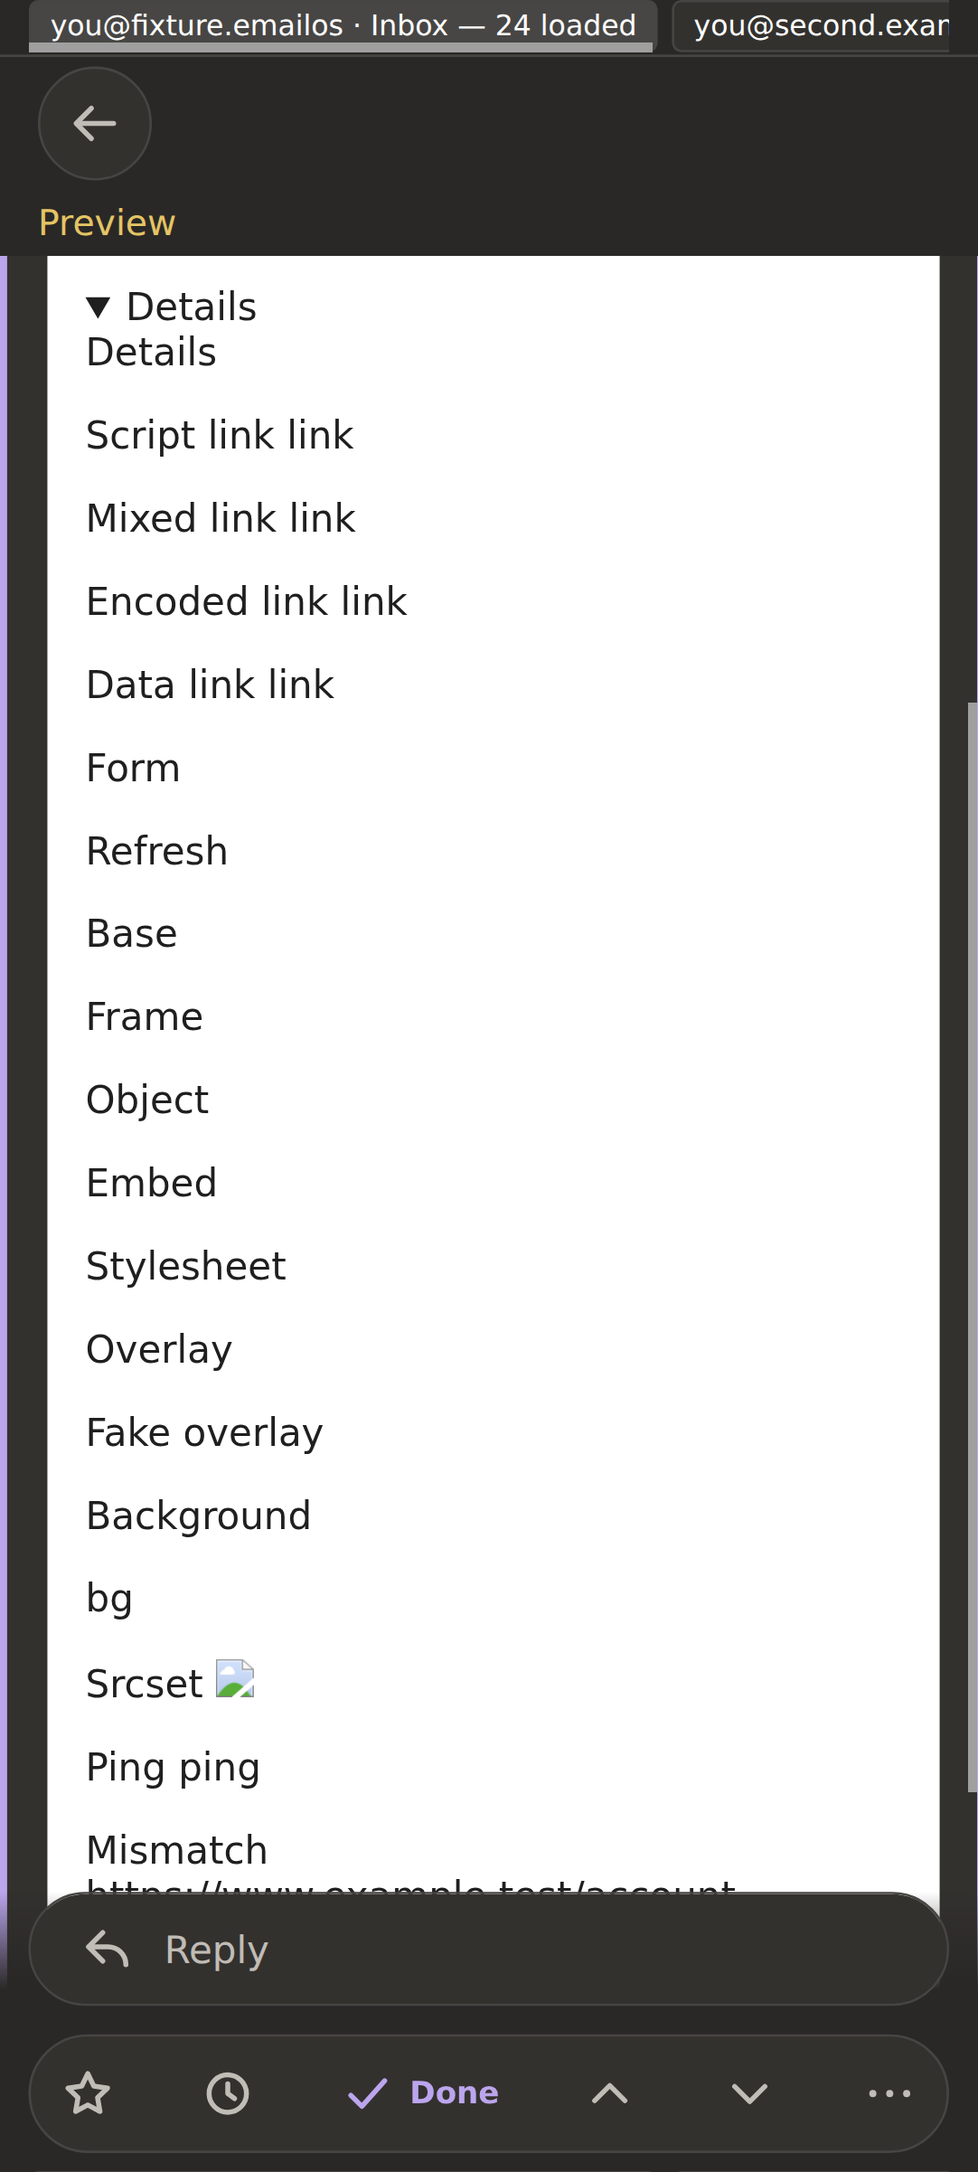
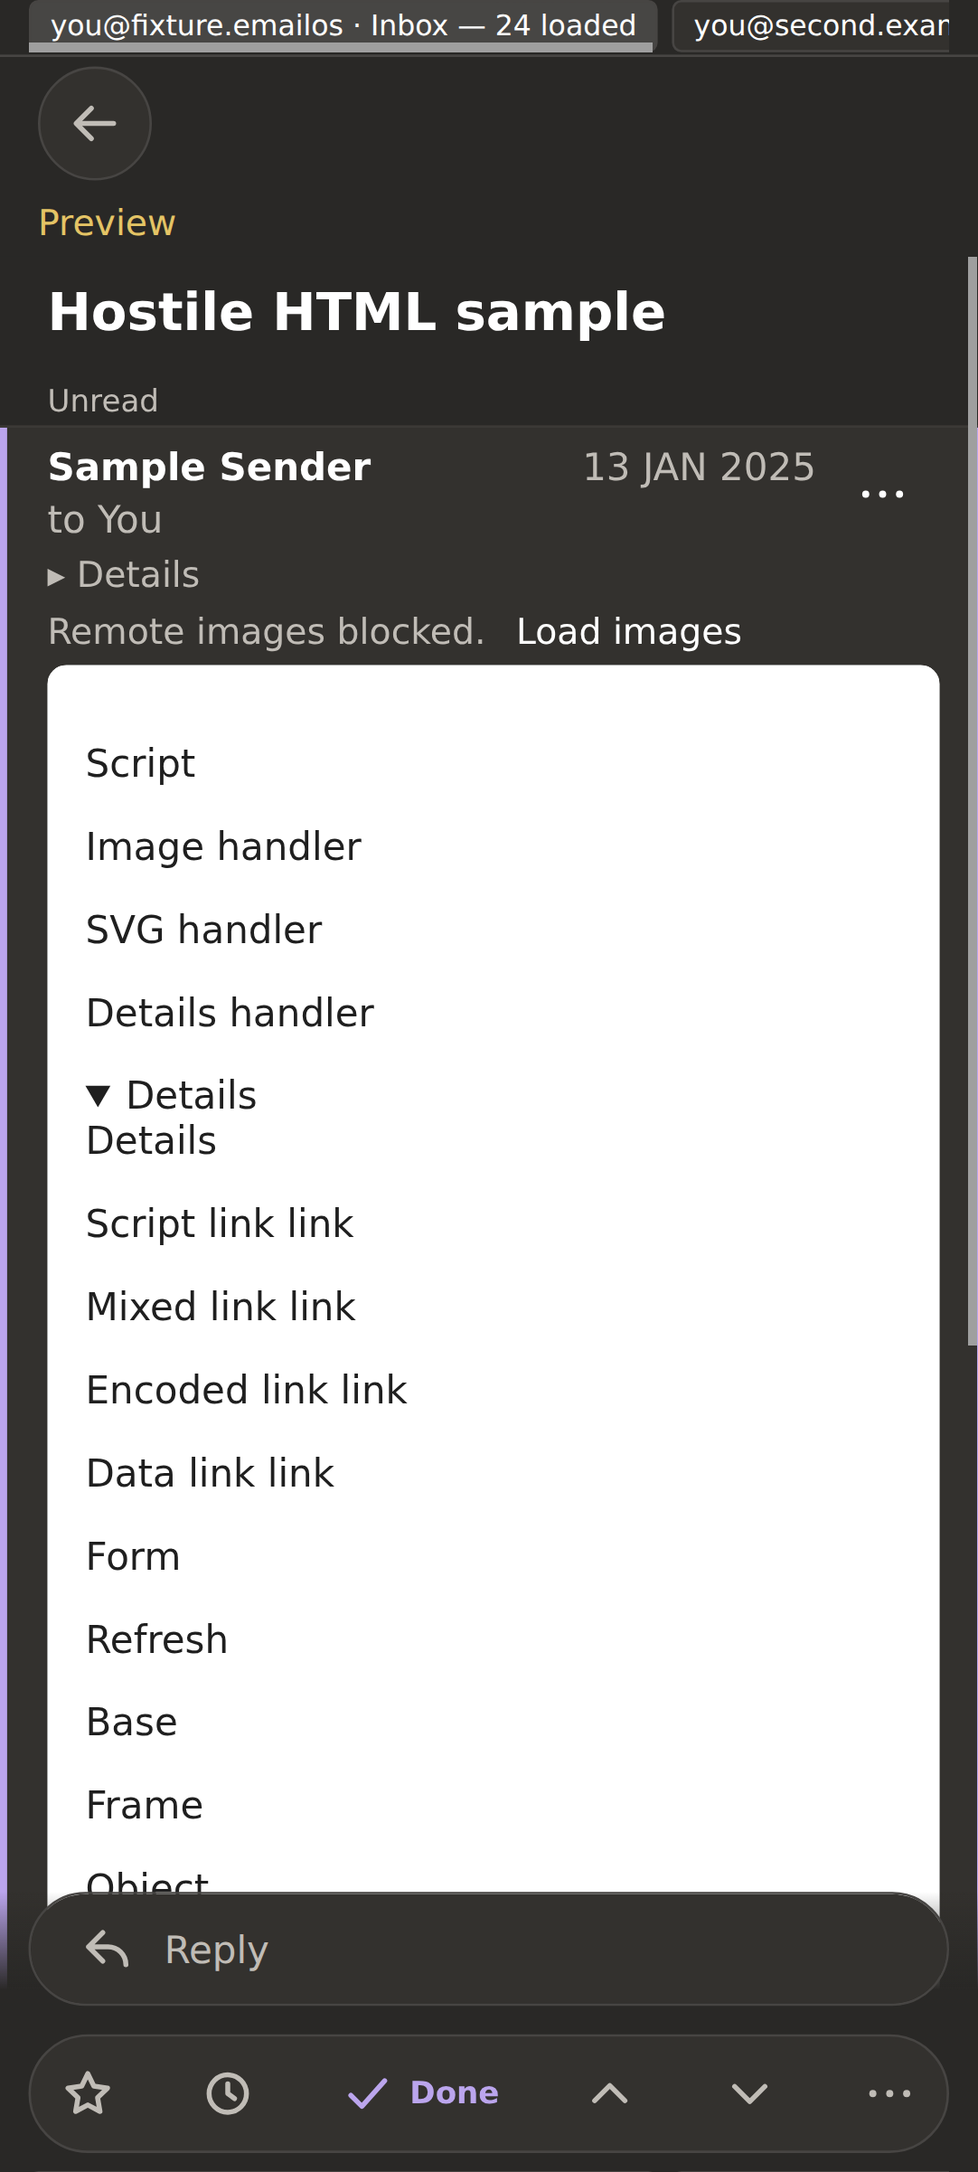
HTML reader review: fit both paddings, clear the mail cache, no referrer
The fit left out the paper card's end padding, so wide mail touched the
right edge. Sanitised mail kept in memory is cleared when the account
changes or disconnects and when its mailbox closes. The frame states its own
no-referrer policy. The rendered test waits for mail content, which is why
it missed the empty reopened frame, and shots keep tall mail at the top.

Entire-Checkpoint: 01M81QXZ7KV000H67ZKQD2X10H

Changed region(s): [[0.0, 0.0937, 1.0, 0.8743], [0.976, 0.6245, 1.0, 0.843], [0.3355, 0.4371, 0.366, 0.4684]]

diff --git a/tests/reader/html-reader.rendered.test.ts b/tests/reader/html-reader.rendered.test.ts
@@ -16,6 +16,8 @@ describe.skipIf(!enabled).each([
 ])('HTML reader (%s)', (name, viewport) => {
   let h: RenderedHarness;
   const requests: string[] = [];
+  /** Referrer policy and header of every remote image the mail loaded. */
+  const referrers: string[] = [];
   const app = `document.querySelector(${JSON.stringify(active)})`;
   const frame = `${app}.querySelector('iframe.html-message-frame:last-of-type')`;
   const doc = `${frame}.contentDocument`;
@@ -23,7 +25,12 @@ describe.skipIf(!enabled).each([
   beforeAll(async () => {
     if (output) mkdirSync(output, { recursive: true });
     h = await startRenderedHarness(chrome, 'email-os-html-reader-', root, viewport);
-    h.cdp.on('Network.requestWillBeSent', (event) => requests.push(event.request.url));
+    h.cdp.on('Network.requestWillBeSent', (event) => {
+      requests.push(event.request.url);
+      if (event.request.url.includes('newsletter.invalid')) {
+        referrers.push(`${event.request.referrerPolicy}:${event.request.headers.Referer ?? ''}`);
+      }
+    });
     await h.cdp.cmd('Network.enable');
   }, 120_000);
   afterAll(async () => { await h?.close(); });
@@ -50,12 +57,13 @@ describe.skipIf(!enabled).each([
     await h.cdp.js(`${app}.querySelector(${JSON.stringify(selector)}).click()`);
   }
   async function readyFrame(): Promise<void> {
-    await wait(`${frame}?.contentDocument?.body && ${frame}.contentDocument.location.href === 'about:srcdoc'`, 'HTML frame');
+    await wait(`${frame}?.contentDocument?.querySelector('.eos-mail-body')?.childNodes.length > 0 && ${frame}.contentDocument.location.href === 'about:srcdoc'`, 'HTML frame');
     await pause();
   }
   async function shot(label: string): Promise<void> {
     if (!output) return;
-    await h.cdp.js(`${frame}?.closest('.message-html-body')?.scrollIntoView({block:'center'})`);
+    // Tall mail stays at the top, where its header and the images bar show.
+    await h.cdp.js(`(() => { const body = ${frame}?.closest('.message-html-body'); if (body && body.clientHeight < innerHeight / 2) body.scrollIntoView({block:'center'}); })()`);
     await pause();
     await h.saveScreenshot(`${output}/${name}-${label}.png`);
   }
@@ -81,12 +89,17 @@ describe.skipIf(!enabled).each([
       expect(size.zoom).toBeLessThan(1);
       expect(size.scrollWidth * size.zoom <= size.width + 2 || size.zoom === 0.5).toBe(true);
     }
+    const gaps = await h.cdp.js<{ left: number; right: number }>(`(() => { const d = ${doc}, root = d.documentElement.getBoundingClientRect(), table = d.querySelector('table table').getBoundingClientRect(); return { left: table.left - root.left, right: root.right - table.right }; })()`);
+    expect(gaps.right).toBeGreaterThan(0);
+    expect(Math.abs(gaps.left - gaps.right)).toBeLessThanOrEqual(2);
     await shot('newsletter-blocked');
     await click('[data-test="load-images"]');
     await wait(`${app}.querySelector('[data-test="remote-images-bar"]') === null`, 'images bar removed');
     for (let i = 0; i < 50 && !requests.some(u => u.includes('track.newsletter.invalid')); i++) await pause(100);
     expect(requests.some(u => u.includes('images.newsletter.invalid'))).toBe(true);
     expect(requests.some(u => u.includes('track.newsletter.invalid'))).toBe(true);
+    expect(referrers.length).toBeGreaterThan(0);
+    expect([...new Set(referrers)]).toEqual(['no-referrer:']);
     await shot('newsletter-loaded');
     await click('[data-test="message-format-toggle-m-19-1"]');
     expect(await h.cdp.js(`${app}.querySelector('.message-body')?.textContent.length > 0`)).toBe(true);

diff --git a/tests/reader/html-mail-cache.test.ts b/tests/reader/html-mail-cache.test.ts
@@ -1,0 +1,81 @@
+// @vitest-environment jsdom
+import { flushPromises, mount } from '@vue/test-utils';
+import { beforeEach, expect, it, vi } from 'vitest';
+import { effectScope } from 'vue';
+import { useMailbox } from '../../src/composables/useMailbox';
+import { createBrowserFakeMailClient } from '../../src/lib/ipc/browser-fake';
+import { flushMacrotasks, useGmailMode } from '../helpers';
+import HtmlMessageFrame from '../../src/components/HtmlMessageFrame.vue';
+import { cachedMail, cacheMail, clearMailCache, mailCacheEpoch } from '../../src/lib/html-mail/mail-cache';
+import { sanitizeMailHtml } from '../../src/lib/html-mail/sanitize';
+import type { MailClient } from '../../src/lib/ipc/client';
+
+const theme = { fontFamily: 'sans-serif', fontSize: '15px', lineHeight: '24px', textColour: '#fff', linkColour: '#fff' };
+const entry = (text: string) => ({
+  body: { html: text, inlineImages: [] },
+  mail: sanitizeMailHtml(text, { remoteImages: false }),
+});
+
+beforeEach(() => clearMailCache());
+
+it('keeps the 20 most recently used messages', () => {
+  for (let i = 0; i < 20; i += 1) cacheMail(String(i), entry('x'), mailCacheEpoch());
+  cachedMail('0');
+  cacheMail('20', entry('x'), mailCacheEpoch());
+  expect(cachedMail('0')).toBeDefined();
+  expect(cachedMail('1')).toBeUndefined();
+});
+
+it('keeps nothing after a clear, including reads already in flight', async () => {
+  let finish: (body: unknown) => void = () => {};
+  const getMessageHtml = vi.fn(() => new Promise(resolve => { finish = resolve; }));
+  const props = {
+    client: { getMessageHtml } as unknown as MailClient,
+    conversation: { accountId: 'a', conversationId: 'c' },
+    messageId: 'm',
+    title: 'Message',
+    remoteImages: false,
+    quoteOpen: false,
+    theme,
+  };
+  const first = mount(HtmlMessageFrame, { props });
+  first.unmount();
+  clearMailCache();
+  finish({ html: '<p>old account</p>', inlineImages: [] });
+  await flushPromises();
+
+  const second = mount(HtmlMessageFrame, { props });
+  await flushPromises();
+  expect(getMessageHtml).toHaveBeenCalledTimes(2);
+  expect(second.find('iframe').exists()).toBe(false);
+  second.unmount();
+});
+
+it('is cleared when the account changes, disconnects or its mailbox closes', async () => {
+  const fake = createBrowserFakeMailClient();
+  useGmailMode(fake);
+  const scope = effectScope();
+  const mailbox = scope.run(() => useMailbox(fake))!;
+  await mailbox.ready;
+  const keep = (key: string) => cacheMail(key, entry('x'), mailCacheEpoch());
+
+  keep('old identity');
+  const status = await fake.getAccountStatus();
+  const spy = vi.spyOn(fake, 'getAccountStatus').mockResolvedValue({
+    ...status, account: { ...status.account!, accountId: 'another-account' },
+  });
+  await mailbox.refresh();
+  await flushMacrotasks(2);
+  expect(cachedMail('old identity')).toBeUndefined();
+  spy.mockRestore();
+  await mailbox.refresh();
+  await flushMacrotasks(2);
+
+  keep('disconnected');
+  await mailbox.disconnectAccount();
+  expect(cachedMail('disconnected')).toBeUndefined();
+
+  keep('closed');
+  scope.stop();
+  expect(cachedMail('closed')).toBeUndefined();
+});

diff --git a/src/components/HtmlMessageFrame.vue b/src/components/HtmlMessageFrame.vue
@@ -1,14 +1,8 @@
-<script lang="ts">
-import type { MessageHtmlBody } from '../lib/ipc/generated';
-import type { SanitizedMail } from '../lib/html-mail/sanitize';
-
-// Keep only the last 20 sanitized variants, including their inline metadata.
-const cache = new Map<string, { mail: SanitizedMail; body: MessageHtmlBody }>();
-</script>
-
 <script setup lang="ts">
 import { computed, onBeforeUnmount, ref, watch } from 'vue';
 import type { ConversationRef, MailClient } from '../lib/ipc/client';
+import type { MessageHtmlBody } from '../lib/ipc/generated';
+import { cachedMail, cacheMail, mailCacheEpoch, type CachedMail } from '../lib/html-mail/mail-cache';
 import { sanitizeMailHtml } from '../lib/html-mail/sanitize';
 import { frameHasNativeGlobals } from '../lib/html-mail/frame-guard';
 import { buildFrameDocument, fitZoom, FRAME_SANDBOX, type FrameTheme } from '../lib/html-mail/frame-document';
@@ -27,7 +21,7 @@ const props = defineProps<{
 }>();
 const emit = defineEmits<{ link: [url: string, text: string]; state: [value: { remoteBlocked: number; hasTrailingQuote: boolean }]; fallback: [reason: 'unavailable' | 'error'] }>();
 const frame = ref<HTMLIFrameElement | null>(null);
-const result = ref<{ mail: SanitizedMail; body: MessageHtmlBody } | null>(null);
+const result = ref<CachedMail | null>(null);
 const unavailable = ref(false);
 let generation = 0;
 let cleanup = () => {};
@@ -42,19 +36,16 @@ watch(() => [props.conversation.accountId, props.conversation.conversationId, pr
   const identity = JSON.stringify([account, conversation, message]);
   const key = JSON.stringify([account, conversation, message, remote]);
   try {
-    let entry = cache.get(key);
+    let entry = cachedMail(key);
     if (!entry) {
+      const epoch = mailCacheEpoch();
       if (fetchedKey !== identity || !fetched) {
         fetchedKey = identity;
         fetched = props.client.getMessageHtml({ accountId: account, conversationId: conversation }, message);
       }
       const body = await fetched;
       entry = { body, mail: sanitizeMailHtml(body.html, { remoteImages: remote }) };
-      cache.set(key, entry);
-      if (cache.size > 20) cache.delete(cache.keys().next().value!);
-    } else {
-      cache.delete(key);
-      cache.set(key, entry);
+      cacheMail(key, entry, epoch);
     }
     if (current === generation) result.value = entry;
   } catch {
@@ -105,7 +96,10 @@ function onLoad() {
     root.style.overflowX = 'hidden';
     // The frame always takes its content height, so it never scrolls vertically.
     root.style.overflowY = 'hidden';
-    const width = root.scrollWidth;
+    // The root's scrollWidth leaves out its end padding when content overflows,
+    // so measure how far content exceeds the body and keep both paddings.
+    const overflow = Math.max(0, doc.body.scrollWidth - doc.body.clientWidth);
+    const width = Math.max(root.scrollWidth, element.clientWidth + overflow);
     const zoom = fitZoom(width, element.clientWidth);
     root.style.zoom = String(zoom);
     root.style.overflowX = width * zoom > element.clientWidth ? 'auto' : 'hidden';

diff --git a/src/composables/useMailbox.ts b/src/composables/useMailbox.ts
@@ -24,6 +24,7 @@ import type { CommandFence, MailboxSession } from './mailbox-session';
 import { SELECTION_MAX, useMailboxSelection } from './useMailboxSelection';
 import { useMailboxAccount, type AccountAction, type AccountState } from './useMailboxAccount';
 import { useMailboxGroups, type GroupNotice } from './useMailboxGroups';
+import { clearMailCache } from '../lib/html-mail/mail-cache';
 import {
   DETAIL_CACHE_MAX, DETAIL_CACHE_TTL_MS, READER_LOADING_DELAY_MS, useMailboxDetailCache,
 } from './useMailboxDetailCache';
@@ -706,6 +707,7 @@ export function useMailbox(client: MailClient): Mailbox {
     exactTotal.value = null;
     lastSyncedAt.value = null;
     closeReader();
+    clearMailCache();
     conversations.value = [];
     activity.value = [];
     focusedRef.value = null;
@@ -746,6 +748,7 @@ export function useMailbox(client: MailClient): Mailbox {
     // Drop every cached surface immediately and invalidate in-flight reads so stale
     // responses cannot repopulate the UI after a disconnect.
     closeReader();
+    clearMailCache();
     listToken += 1;
     activityToken += 1;
     activityError.value = null;
@@ -1196,6 +1199,7 @@ export function useMailbox(client: MailClient): Mailbox {
     activityToken += 1;
     detailToken += 1;
     invalidateDetailCache();
+    clearMailCache();
     clearHold();
     unsubscribe?.();
     unsubscribe = null;

diff --git a/src/lib/html-mail/mail-cache.ts b/src/lib/html-mail/mail-cache.ts
@@ -1,0 +1,43 @@
+/**
+ * Sanitised messages kept in memory so moving between messages and reopening
+ * a conversation does not sanitise again. Bounded, and cleared when an account
+ * is disconnected or replaced, or its mailbox is closed.
+ */
+import type { MessageHtmlBody } from '../ipc/generated';
+import type { SanitizedMail } from './sanitize';
+
+export interface CachedMail {
+  mail: SanitizedMail;
+  body: MessageHtmlBody;
+}
+
+const MAX_ENTRIES = 20;
+const entries = new Map<string, CachedMail>();
+let epoch = 0;
+
+/** Captured before a fetch; an entry from an older epoch is not stored. */
+export function mailCacheEpoch(): number {
+  return epoch;
+}
+
+/** Returns an entry and makes it the most recently used. */
+export function cachedMail(key: string): CachedMail | undefined {
+  const entry = entries.get(key);
+  if (entry) {
+    entries.delete(key);
+    entries.set(key, entry);
+  }
+  return entry;
+}
+
+export function cacheMail(key: string, entry: CachedMail, fetchEpoch: number): void {
+  if (fetchEpoch !== epoch) return;
+  entries.set(key, entry);
+  if (entries.size > MAX_ENTRIES) entries.delete(entries.keys().next().value!);
+}
+
+/** Drops every entry and refuses results of reads already in flight. */
+export function clearMailCache(): void {
+  epoch += 1;
+  entries.clear();
+}

diff --git a/src/lib/html-mail/frame-document.ts b/src/lib/html-mail/frame-document.ts
@@ -36,7 +36,7 @@ table { max-width: none; }
 [data-eos-href] { cursor: pointer; }
 ${paper ? '' : `[data-eos-href] { color: ${link}; text-decoration: underline; }`}
 html:not(.eos-quote-open) [data-eos-quote="trailing"] { display: none !important; }`;
-  return `<!doctype html><html class="${options.quoteOpen ? 'eos-quote-open' : ''}"><head><meta charset="utf-8"><meta http-equiv="Content-Security-Policy" content="${frameCsp(options.remoteImages)}"><style>${base}</style><style>${mail.styles}</style></head><body>${mail.body}</body></html>`;
+  return `<!doctype html><html class="${options.quoteOpen ? 'eos-quote-open' : ''}"><head><meta charset="utf-8"><meta name="referrer" content="no-referrer"><meta http-equiv="Content-Security-Policy" content="${frameCsp(options.remoteImages)}"><style>${base}</style><style>${mail.styles}</style></head><body>${mail.body}</body></html>`;
 }
 
 /** Scales wide content to fit, retaining a minimum readable zoom. */

diff --git a/tests/reader/html-frame-document.test.ts b/tests/reader/html-frame-document.test.ts
@@ -15,6 +15,8 @@ describe('frame document', () => {
     const doc = buildFrameDocument(mail, { remoteImages: false, theme, quoteOpen: true });
     expect(doc.indexOf('Content-Security-Policy')).toBeLessThan(doc.indexOf('<style>'));
     expect(doc.indexOf('<style>')).toBeLessThan(doc.indexOf('<body>'));
+    expect(doc.indexOf('<meta name="referrer" content="no-referrer">')).toBeGreaterThan(0);
+    expect(doc.indexOf('name="referrer"')).toBeLessThan(doc.indexOf('<style>'));
     expect(doc).toContain('eos-quote-open');
     expect(doc).toContain('color-scheme: dark');
     const paper = buildFrameDocument(mail, { remoteImages: false, theme: { ...theme, mode: 'paper' }, quoteOpen: false });

diff --git a/tests/reader/html-sanitize.test.ts b/tests/reader/html-sanitize.test.ts
@@ -103,6 +103,11 @@ describe('hostile sizes', () => {
     expect(result.cidReferences).toEqual(['b', 'a']);
   });
 
+  it('drops referrer policies set by the mail', () => {
+    const html = '<meta name="referrer" content="unsafe-url"><img referrerpolicy="unsafe-url" src="https://x.invalid/a.png">';
+    expect(sanitizeMailHtml(html, { remoteImages: true }).body).not.toMatch(/referrer|meta/i);
+  });
+
   it('keeps quote semantics', () => {
     const trailing = (html: string) => timed(html).result.hasTrailingQuote;
     expect(trailing('<div><div class="gmail_quote">q</div></div> <br>')).toBe(true);

diff --git a/docs/adr/0006-html-mail-reader.md b/docs/adr/0006-html-mail-reader.md
@@ -153,7 +153,30 @@ implementation and recorded here instead of rewriting the proposal:
 6. **Process.** Stages were written by sub-agents and reviewed by the track
    owner, but because of the one-heavy-command rule, the sub-agents only wrote
    code. The owner ran every cargo, gradle and vitest check and made every
-   commit.
+   commit. Two of the review-fix stages came back incomplete; the owner
+   finished them.
+7. **No `html2text`** (review of `bc5d5bf`; replaces the approval in decision 2).
+   It builds its whole output before any bound applies and can be made to use
+   hundreds of megabytes or tens of seconds, or to fail and lose the body.
+   Derived text now comes from one linear, output-bounded pass
+   (`crates/mail-core/src/gmail/html_text.rs`) used for all input. It never
+   fails; an image-only message has empty text and is shown through its HTML.
+   The named character references come from `markup5ever` 0.40.0, which
+   `html2text` already brought in.
+8. **HTML has its own page budget.** Sharing the 16 MiB page bound let a sender
+   fill it with HTML so that a later ordinary thread failed the page even
+   without its HTML. HTML bodies and text derived from them now count toward a
+   separate 8 MiB per page; past it a thread's HTML is recorded as too large
+   and its derived text is cut to 2,000 characters. Everything else keeps the
+   16 MiB bound it had.
+9. **CSS filter on tokens** (review of `bc5d5bf`). The first filter kept reading
+   a string past a raw newline, where a browser ends it, so later declarations
+   passed unchecked (the frame CSP still blocked the request). The filter now
+   works on tokens split as CSS Syntax does, refuses malformed input whole,
+   allows listed functions only, and serialises kept tokens.
+10. **Sanitised mail in memory** (a cache of 20 messages) is cleared when the
+    account changes or disconnects and when its mailbox closes, and reads in
+    flight at that moment are not stored.
 
 ### Validation (2026-11-21)
 
@@ -193,10 +216,11 @@ implementation and recorded here instead of rewriting the proposal:
 - **Risk seen.** Three times, at the first or second launch right after
   installing a new APK, the app hit an input-dispatch ANR ("Input dispatching
   timed out … Waited 5001ms for FocusEvent(hasFocus=true)"); twice at load
-  average 4–10, once at about 2.7. Choosing "Wait" recovered each time, and later
-  launches were clean. Nothing in this ADR runs at startup (the frame only exists
-  in the reader), but this was not compared with a `main` build, so the cause is
-  not established. Startup belongs to track A's first-launch work.
+  average 4–10, once at about 2.7. Choosing "Wait" recovered each time. This ADR
+  adds startup work once per profile (schema migration 10 and the synthetic
+  seed upgrade); both were already done at the third ANR. It was not compared
+  with a `main` build, so the cause is not established. Startup belongs to
+  track A's first-launch work.
 
 ## Decisions
 

diff --git a/docs/current-status.md b/docs/current-status.md
@@ -59,7 +59,7 @@ linked contracts for exact bounds and pending platform security gates.
 
 ### HTML mail (ADR 0006)
 
-The desktop and compact reader show formatted HTML mail in the native app and in browser preview; Android was checked on the emulator, macOS WKWebView is an owner check. Gmail keeps plain and HTML parts; HTML-only mail gets text via `html2text` for previews, search, reply quotes and copying. HTML is bounded to 512 Ki characters per message and 2 MiB per thread. Oversized HTML, including HTML dropped to stay within the 16 MiB sync-page budget, shows text and “Formatted version too large to show.” Migration `gmail-migrations-10` adds HTML state and inline-part storage; cached mail stays plain until refreshed.
+The desktop and compact reader show formatted HTML mail in the native app and in browser preview; Android was checked on the emulator, macOS WKWebView is an owner check. Gmail keeps plain and HTML parts; HTML-only mail gets text from a bounded linear extractor for previews, search, reply quotes and copying. HTML is bounded to 512 Ki characters per message and 2 MiB per thread. Oversized HTML, including HTML over the separate 8 MiB sync-page budget for HTML, shows text and “Formatted version too large to show.” Migration `gmail-migrations-10` adds HTML state and inline-part storage; cached mail stays plain until refreshed.
 
 Pinned DOMPurify 3.4.17 and a CSS filter clean mail in an inert document. The result is parsed in a sandboxed `srcdoc` frame, without scripts, forms, popups or top navigation. SVG, MathML and navigable `href` attributes are removed; HTTP(S) and mailto links use `data-eos-href`. Remote images are withheld as `data-eos-src` until “Load images” is chosen for that message; the choice lasts until the conversation closes. Listed, signature-checked PNG, JPEG, GIF and WebP `cid:` images up to 2 MiB load as base64 without disk writes. The frame uses `sandbox="allow-same-origin"` and a CSP of `default-src 'none'; script-src 'none'; style-src 'unsafe-inline'; img-src data:; font-src data:; form-action 'none'`, adding `https:` to `img-src` after loading images. It inherits the app CSP, whose only change is adding `https:` to `img-src`. A guard checks `__TAURI_INTERNALS__`, `__TAURI__`, `__TAURI_IPC__`, `__TAURI_POST_MESSAGE__`, `__TAURI_METADATA__` and `ipc`; if visible, it falls back to text with “Formatted view unavailable on this device.”
 
